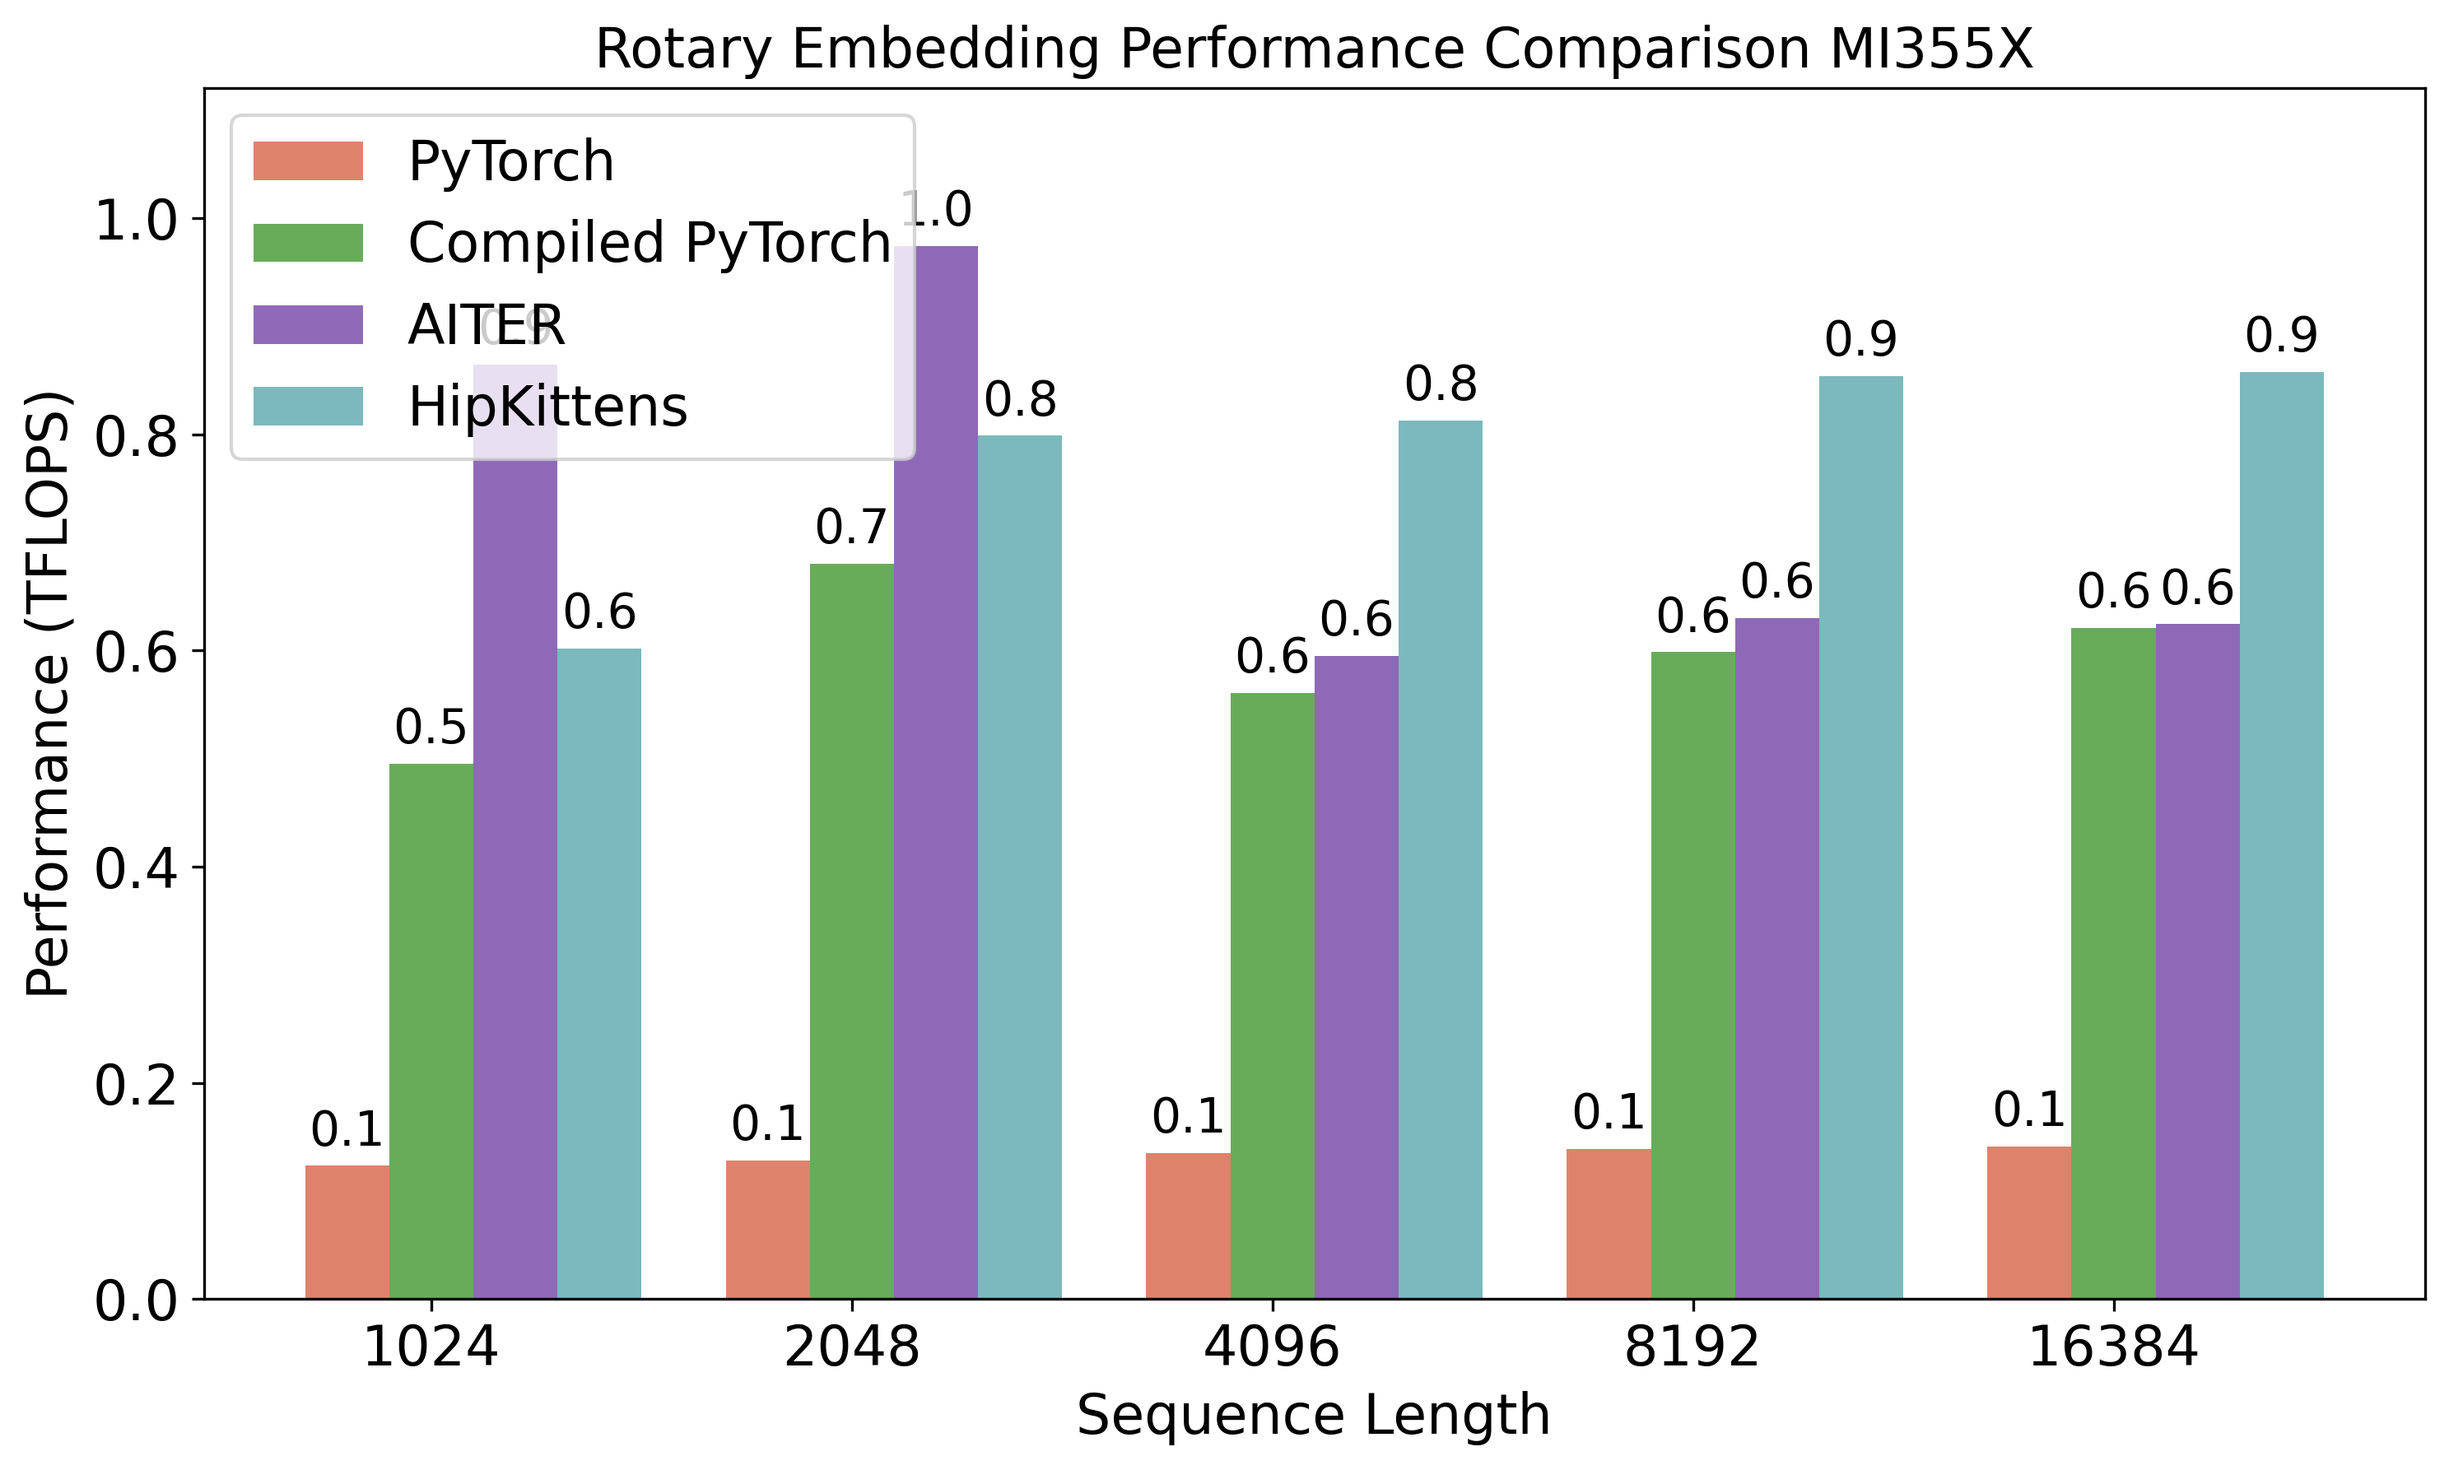
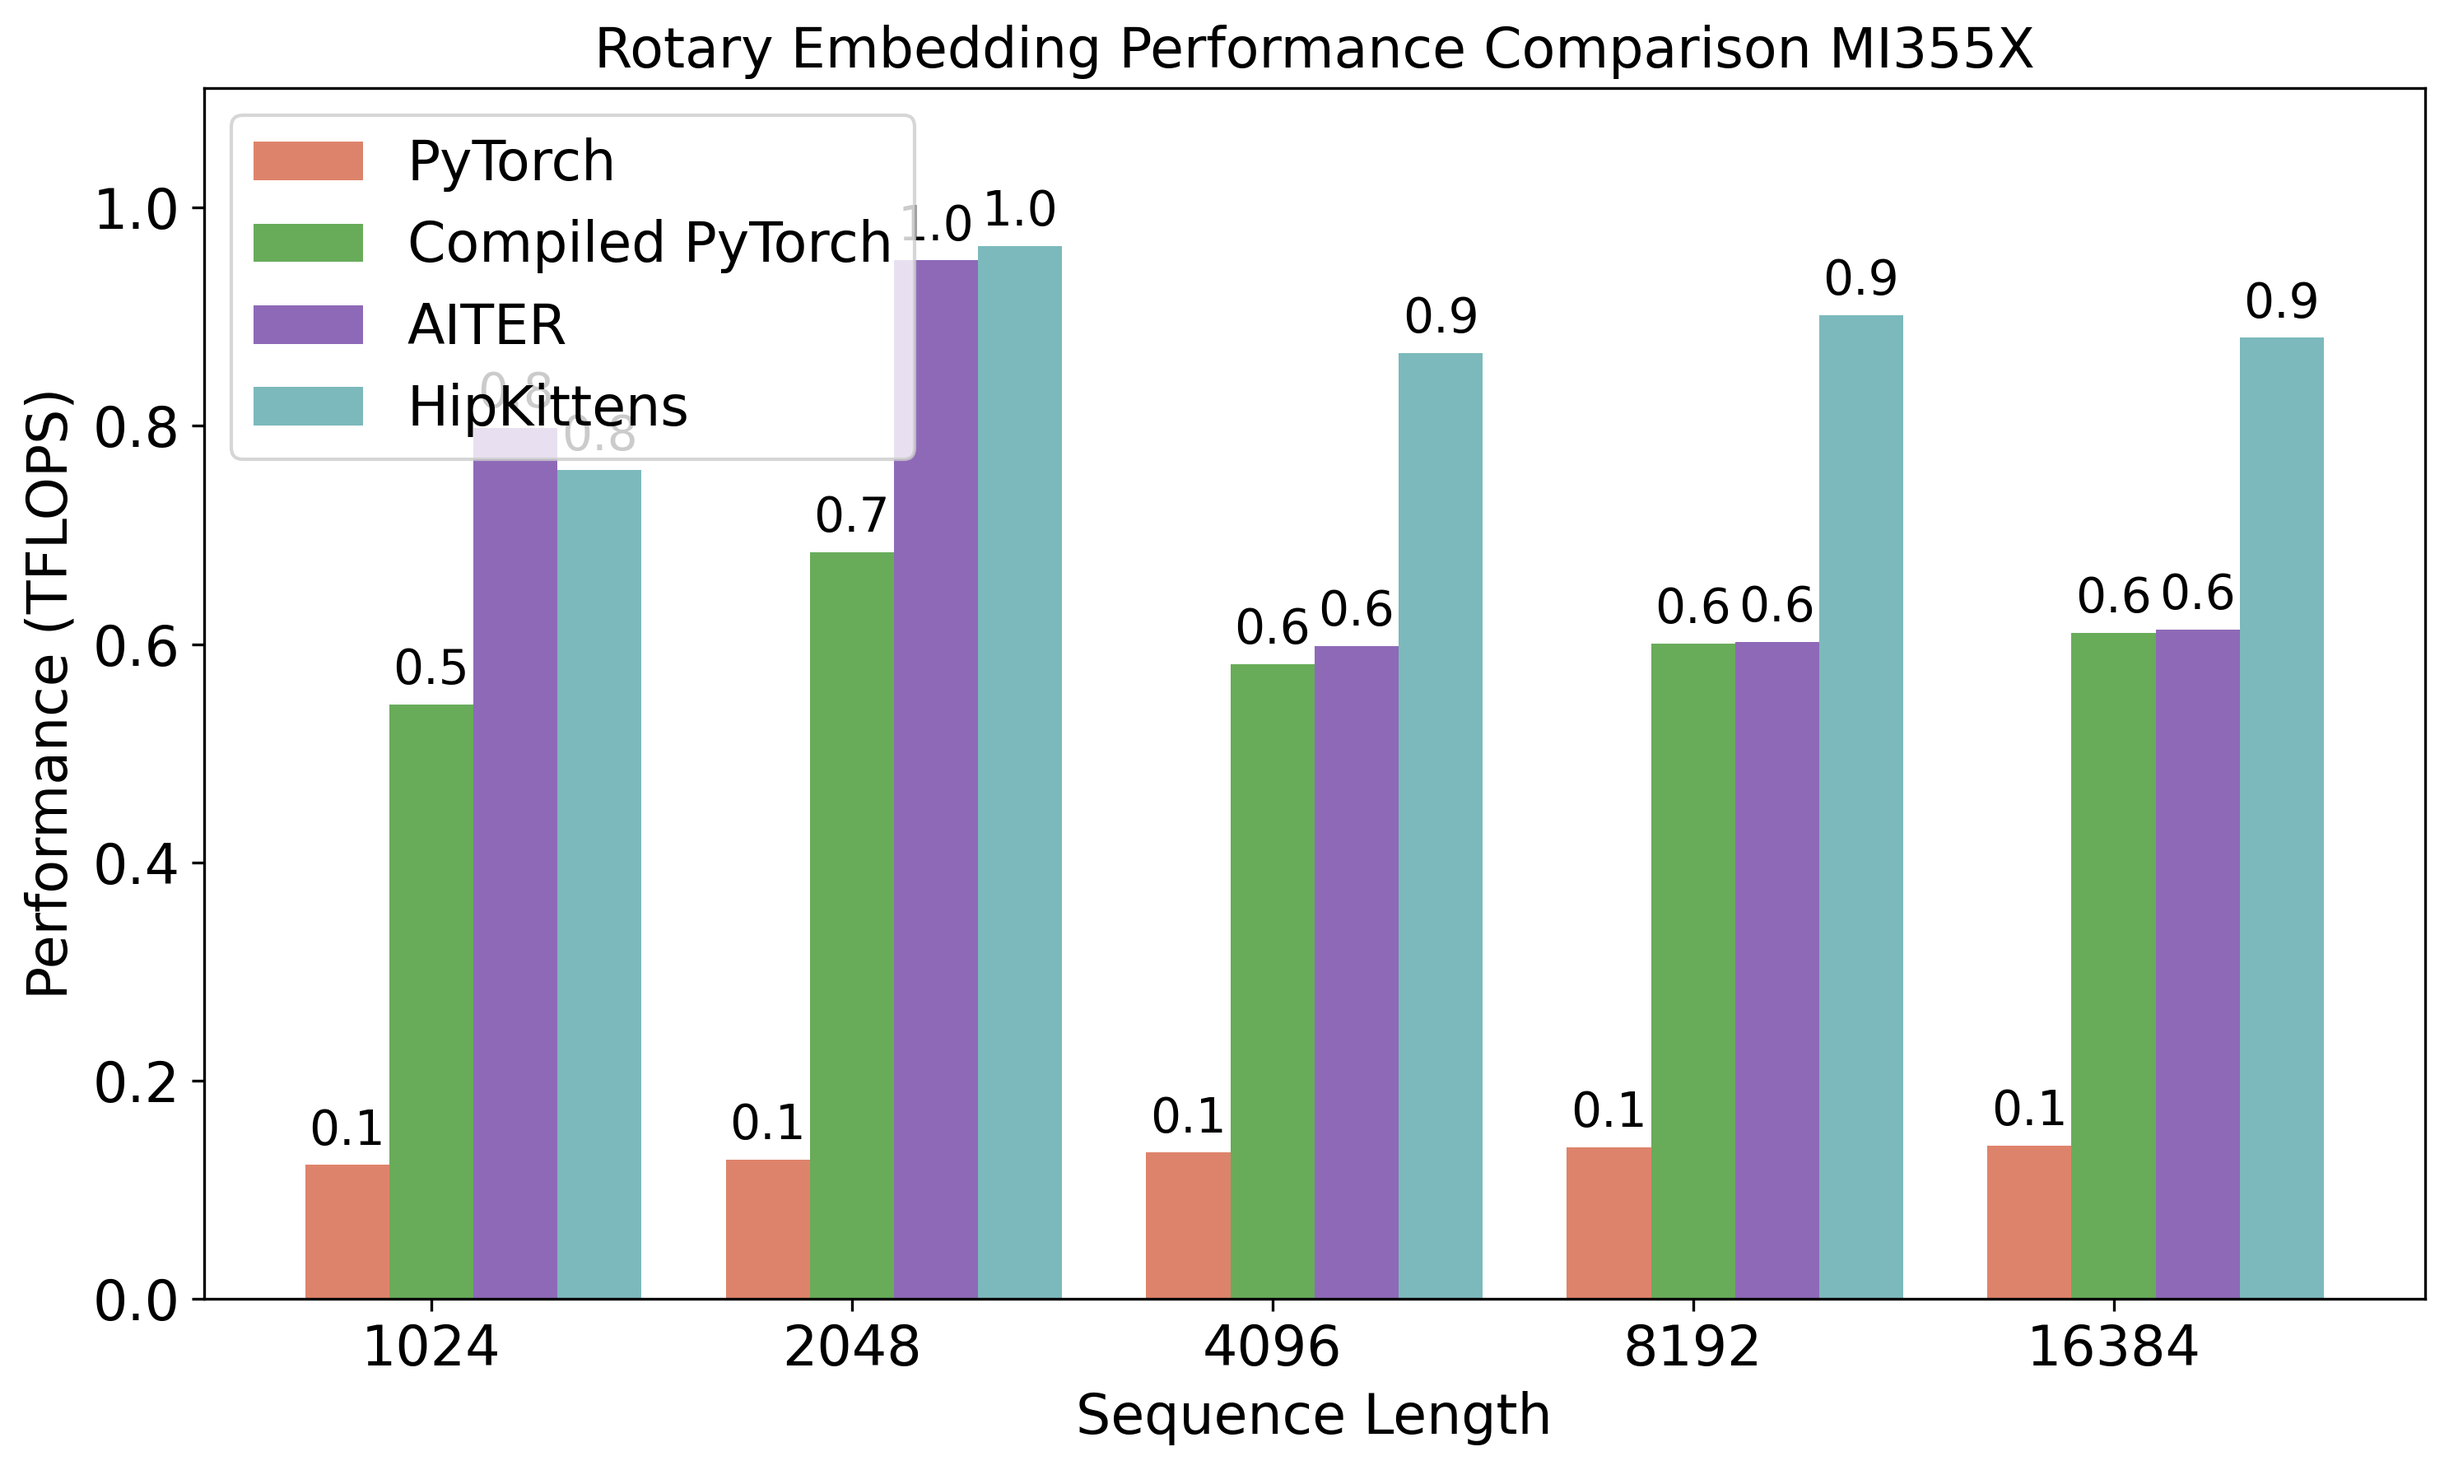
fix rotary

diff --git a/kernels/TK/rotary/test_python.py b/kernels/TK/rotary/test_python.py
@@ -58,8 +58,8 @@ def get_output(x, cos_in, sin_in, ro_dim):
 start_event = torch.cuda.Event(enable_timing=True) # in milliseconds
 end_event = torch.cuda.Event(enable_timing=True)
 flops_ref = flops(B, N, D)
-num_warmup = 50
-num_iters = 50
+num_warmup = 500
+num_iters = 100
 
 cos_in, sin_in, ro_dim = get_cos_sin(x)
 
@@ -106,20 +106,15 @@ print(f"Speedup from torch.compile: {speedup:.2f}x")
 # AITER
 print("\nAITer (RoPE cached):")
 from aiter.ops.rope import rope_cached_fwd as _aiter_cached_fwd
-
 # Prepare inputs in AITer layout (SBHD) and cached cos/sin as [S,1,1,D//2]
 x_sbhd = rearrange(x, 'b h n d -> n b h d').contiguous()
 cos_aiter = cos_in.view(N, 1, 1, D // 2).to(dtype=x.dtype, device=x.device).contiguous()
 sin_aiter = sin_in.view(N, 1, 1, D // 2).to(dtype=x.dtype, device=x.device).contiguous()
-
-# AITer flags: 0 = NEOX-style rotation; reuse front part True for d//2 cos/sin; nope_first can be True (irrelevant if rotate over full D)
 rotate_style = 0
 reuse_freqs_front_part = True
 nope_first = True
-
 def _aiter_call(x_sbhd, cos, sin):
-    return _aiter_cached_fwd(x_sbhd, cos, sin,
-                                 rotate_style, reuse_freqs_front_part, nope_first)
+    return _aiter_cached_fwd(x_sbhd, cos, sin, rotate_style, reuse_freqs_front_part, nope_first)
 for _ in range(num_warmup):
     o_sbhd = _aiter_call(x_sbhd, cos_aiter, sin_aiter)
 timings_aiter = []
@@ -130,7 +125,6 @@ for _ in range(num_iters):
     end_event.record()
     torch.cuda.synchronize()
     timings_aiter.append(start_event.elapsed_time(end_event))
-
 avg_time_aiter = sum(timings_aiter) / len(timings_aiter)
 eff_aiter = efficiency(flops_ref, avg_time_aiter)
 print(f"AITer average execution time: {avg_time_aiter:.4f} ms")
@@ -146,9 +140,10 @@ print("AITer max_diff:", o_diff_aiter.max().item())
 
 # TK
 # print("\nTK:")
-o_tk = torch.zeros_like(x).bfloat16()
-sin_tk = sin_in.to(torch.bfloat16).cuda()
-cos_tk = cos_in.to(torch.bfloat16).cuda()
+stream_handle = torch.cuda.current_stream().cuda_stream
+o_tk = torch.zeros_like(x).bfloat16().contiguous()
+sin_tk = sin_in.to(torch.bfloat16).cuda().contiguous()
+cos_tk = cos_in.to(torch.bfloat16).cuda().contiguous()
 timings = []
 for _ in range(num_warmup):
     tk_kernel.dispatch_rotary(x, o_tk, sin_tk, cos_tk)

diff --git a/analysis/rotary/mi350x/kernel_1024.cpp b/analysis/rotary/mi350x/kernel_1024.cpp
@@ -34,6 +34,7 @@ template<int _d_model> struct rotary_globals {
     o_gl o;
     sin_gl sin;
     cos_gl cos;
+    hipStream_t stream;
 
     dim3 grid() { return dim3(ATTN_H, (ATTN_B + NUM_WORKERS - 1) / NUM_WORKERS, ATTN_N / BLOCK_SIZE); }
     dim3 block() { return dim3(NUM_THREADS); }
@@ -65,10 +66,8 @@ __global__ void tk_fused_rotary(const rotary_globals<D> g) {
         for (int j = 0; j < PT; ++j) {
             const auto x1 = x_reg.tiles[0][i].data[j];
             const auto x2 = x_reg.tiles[0][i + half_dim_tiles].data[j];
-            const auto lo = __hsub2(__hmul2(x1, cos_reg.tiles[0][i].data[j]), __hmul2(x2, sin_reg.tiles[0][i].data[j]));
-            const auto hi = __hadd2(__hmul2(x2, cos_reg.tiles[0][i].data[j]), __hmul2(x1, sin_reg.tiles[0][i].data[j]));
-            x_reg.tiles[0][i].data[j]  = lo;
-            x_reg.tiles[0][i + half_dim_tiles].data[j] = hi; 
+            x_reg.tiles[0][i].data[j] = __hsub2(__hmul2(x1, cos_reg.tiles[0][i].data[j]), __hmul2(x2, sin_reg.tiles[0][i].data[j]));
+            x_reg.tiles[0][i + half_dim_tiles].data[j] = __hadd2(__hmul2(x2, cos_reg.tiles[0][i].data[j]), __hmul2(x1, sin_reg.tiles[0][i].data[j]));
         }
     }
     store(g.o, x_reg, {b, h, n, 0}); 
@@ -78,8 +77,7 @@ template<int D>
 void dispatch_rotary(rotary_globals<D> g) {
     unsigned long mem_size = g.dynamic_shared_memory();
     hipFuncSetAttribute((void*)tk_fused_rotary<D>, hipFuncAttributeMaxDynamicSharedMemorySize, mem_size);
-    tk_fused_rotary<D><<<g.grid(), g.block(), mem_size>>>(g);
-    hipDeviceSynchronize();
+    tk_fused_rotary<D><<<g.grid(), g.block(), mem_size, g.stream>>>(g);
 }
 
 PYBIND11_MODULE(tk_kernel, m) {

diff --git a/analysis/rotary/mi350x/kernel_16384.cpp b/analysis/rotary/mi350x/kernel_16384.cpp
@@ -34,6 +34,7 @@ template<int _d_model> struct rotary_globals {
     o_gl o;
     sin_gl sin;
     cos_gl cos;
+    hipStream_t stream;
 
     dim3 grid() { return dim3(ATTN_H, (ATTN_B + NUM_WORKERS - 1) / NUM_WORKERS, ATTN_N / BLOCK_SIZE); }
     dim3 block() { return dim3(NUM_THREADS); }
@@ -65,10 +66,8 @@ __global__ void tk_fused_rotary(const rotary_globals<D> g) {
         for (int j = 0; j < PT; ++j) {
             const auto x1 = x_reg.tiles[0][i].data[j];
             const auto x2 = x_reg.tiles[0][i + half_dim_tiles].data[j];
-            const auto lo = __hsub2(__hmul2(x1, cos_reg.tiles[0][i].data[j]), __hmul2(x2, sin_reg.tiles[0][i].data[j]));
-            const auto hi = __hadd2(__hmul2(x2, cos_reg.tiles[0][i].data[j]), __hmul2(x1, sin_reg.tiles[0][i].data[j]));
-            x_reg.tiles[0][i].data[j]  = lo;
-            x_reg.tiles[0][i + half_dim_tiles].data[j] = hi; 
+            x_reg.tiles[0][i].data[j] = __hsub2(__hmul2(x1, cos_reg.tiles[0][i].data[j]), __hmul2(x2, sin_reg.tiles[0][i].data[j]));
+            x_reg.tiles[0][i + half_dim_tiles].data[j] = __hadd2(__hmul2(x2, cos_reg.tiles[0][i].data[j]), __hmul2(x1, sin_reg.tiles[0][i].data[j]));
         }
     }
     store(g.o, x_reg, {b, h, n, 0}); 
@@ -78,8 +77,7 @@ template<int D>
 void dispatch_rotary(rotary_globals<D> g) {
     unsigned long mem_size = g.dynamic_shared_memory();
     hipFuncSetAttribute((void*)tk_fused_rotary<D>, hipFuncAttributeMaxDynamicSharedMemorySize, mem_size);
-    tk_fused_rotary<D><<<g.grid(), g.block(), mem_size>>>(g);
-    hipDeviceSynchronize();
+    tk_fused_rotary<D><<<g.grid(), g.block(), mem_size, g.stream>>>(g);
 }
 
 PYBIND11_MODULE(tk_kernel, m) {

diff --git a/analysis/rotary/mi350x/kernel_4096.cpp b/analysis/rotary/mi350x/kernel_4096.cpp
@@ -34,6 +34,7 @@ template<int _d_model> struct rotary_globals {
     o_gl o;
     sin_gl sin;
     cos_gl cos;
+    hipStream_t stream;
 
     dim3 grid() { return dim3(ATTN_H, (ATTN_B + NUM_WORKERS - 1) / NUM_WORKERS, ATTN_N / BLOCK_SIZE); }
     dim3 block() { return dim3(NUM_THREADS); }
@@ -65,10 +66,8 @@ __global__ void tk_fused_rotary(const rotary_globals<D> g) {
         for (int j = 0; j < PT; ++j) {
             const auto x1 = x_reg.tiles[0][i].data[j];
             const auto x2 = x_reg.tiles[0][i + half_dim_tiles].data[j];
-            const auto lo = __hsub2(__hmul2(x1, cos_reg.tiles[0][i].data[j]), __hmul2(x2, sin_reg.tiles[0][i].data[j]));
-            const auto hi = __hadd2(__hmul2(x2, cos_reg.tiles[0][i].data[j]), __hmul2(x1, sin_reg.tiles[0][i].data[j]));
-            x_reg.tiles[0][i].data[j]  = lo;
-            x_reg.tiles[0][i + half_dim_tiles].data[j] = hi; 
+            x_reg.tiles[0][i].data[j] = __hsub2(__hmul2(x1, cos_reg.tiles[0][i].data[j]), __hmul2(x2, sin_reg.tiles[0][i].data[j]));
+            x_reg.tiles[0][i + half_dim_tiles].data[j] = __hadd2(__hmul2(x2, cos_reg.tiles[0][i].data[j]), __hmul2(x1, sin_reg.tiles[0][i].data[j]));
         }
     }
     store(g.o, x_reg, {b, h, n, 0}); 
@@ -78,8 +77,7 @@ template<int D>
 void dispatch_rotary(rotary_globals<D> g) {
     unsigned long mem_size = g.dynamic_shared_memory();
     hipFuncSetAttribute((void*)tk_fused_rotary<D>, hipFuncAttributeMaxDynamicSharedMemorySize, mem_size);
-    tk_fused_rotary<D><<<g.grid(), g.block(), mem_size>>>(g);
-    hipDeviceSynchronize();
+    tk_fused_rotary<D><<<g.grid(), g.block(), mem_size, g.stream>>>(g);
 }
 
 PYBIND11_MODULE(tk_kernel, m) {

diff --git a/analysis/rotary/mi350x/kernel_8192.cpp b/analysis/rotary/mi350x/kernel_8192.cpp
@@ -34,6 +34,7 @@ template<int _d_model> struct rotary_globals {
     o_gl o;
     sin_gl sin;
     cos_gl cos;
+    hipStream_t stream;
 
     dim3 grid() { return dim3(ATTN_H, (ATTN_B + NUM_WORKERS - 1) / NUM_WORKERS, ATTN_N / BLOCK_SIZE); }
     dim3 block() { return dim3(NUM_THREADS); }
@@ -65,10 +66,8 @@ __global__ void tk_fused_rotary(const rotary_globals<D> g) {
         for (int j = 0; j < PT; ++j) {
             const auto x1 = x_reg.tiles[0][i].data[j];
             const auto x2 = x_reg.tiles[0][i + half_dim_tiles].data[j];
-            const auto lo = __hsub2(__hmul2(x1, cos_reg.tiles[0][i].data[j]), __hmul2(x2, sin_reg.tiles[0][i].data[j]));
-            const auto hi = __hadd2(__hmul2(x2, cos_reg.tiles[0][i].data[j]), __hmul2(x1, sin_reg.tiles[0][i].data[j]));
-            x_reg.tiles[0][i].data[j]  = lo;
-            x_reg.tiles[0][i + half_dim_tiles].data[j] = hi; 
+            x_reg.tiles[0][i].data[j] = __hsub2(__hmul2(x1, cos_reg.tiles[0][i].data[j]), __hmul2(x2, sin_reg.tiles[0][i].data[j]));
+            x_reg.tiles[0][i + half_dim_tiles].data[j] = __hadd2(__hmul2(x2, cos_reg.tiles[0][i].data[j]), __hmul2(x1, sin_reg.tiles[0][i].data[j]));
         }
     }
     store(g.o, x_reg, {b, h, n, 0}); 
@@ -78,8 +77,7 @@ template<int D>
 void dispatch_rotary(rotary_globals<D> g) {
     unsigned long mem_size = g.dynamic_shared_memory();
     hipFuncSetAttribute((void*)tk_fused_rotary<D>, hipFuncAttributeMaxDynamicSharedMemorySize, mem_size);
-    tk_fused_rotary<D><<<g.grid(), g.block(), mem_size>>>(g);
-    hipDeviceSynchronize();
+    tk_fused_rotary<D><<<g.grid(), g.block(), mem_size, g.stream>>>(g);
 }
 
 PYBIND11_MODULE(tk_kernel, m) {
